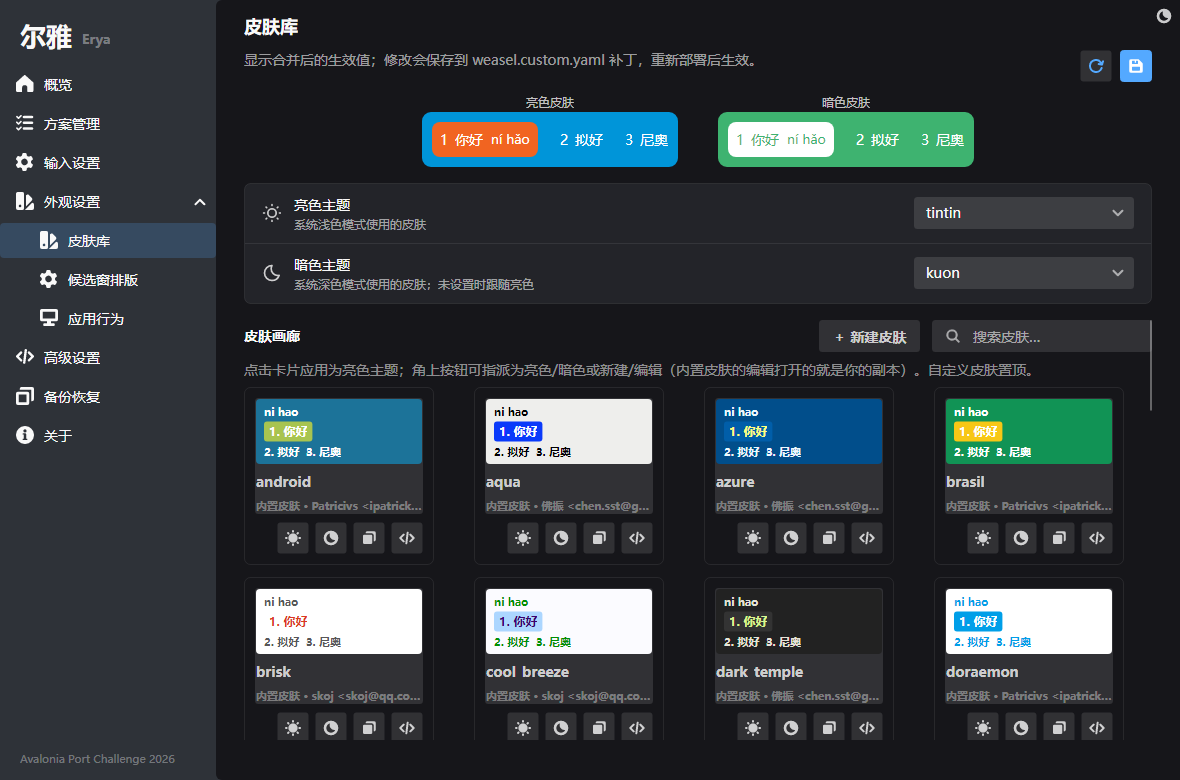
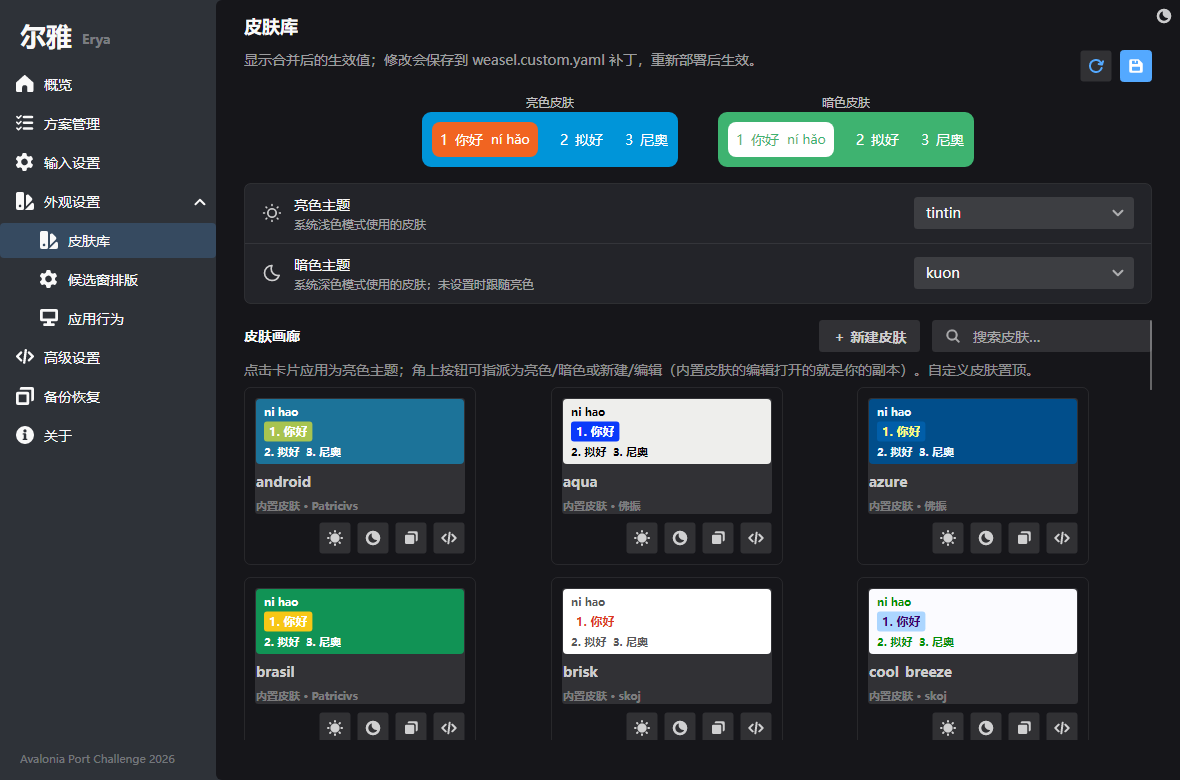
refactor: gallery cards and color picker polish (round 9)

Changed region(s): [[0.2136, 0.7385, 0.9458, 0.9538], [0.2136, 0.4923, 0.9458, 0.7077]]

diff --git a/src/Erya/Views/ColorSwatch.cs b/src/Erya/Views/ColorSwatch.cs
@@ -7,16 +7,19 @@ using Avalonia.Media;
 namespace Erya.Views;
 
 /// <summary>
-/// 颜色色块（对比度主题式）：圆角矩形显示当前色，点击弹出完整取色器。
-/// 值为皮肤编辑器惯用的 RIME 0xBBGGRR 十六进制字符串（无 0x 前缀）。
+/// 颜色色块（对比度主题式）：圆角矩形显示当前色，点击弹出扁平取色面板
+/// （ColorView 直出，无嵌套弹层）。值为皮肤编辑器惯用的 RIME 0xBBGGRR
+/// 十六进制字符串（无 0x 前缀），经 <see cref="SwatchColor"/> 桥接双向同步。
 /// </summary>
 public class ColorSwatch : TemplatedControl
 {
     public static readonly StyledProperty<string?> RimeHexProperty =
         AvaloniaProperty.Register<ColorSwatch, string?>(nameof(RimeHex));
 
+    public static readonly StyledProperty<Color> SwatchColorProperty =
+        AvaloniaProperty.Register<ColorSwatch, Color>(nameof(SwatchColor), Colors.White);
+
     private Border? _swatch;
-    private ColorPicker? _picker;
     private bool _syncing;
 
     public ColorSwatch()
@@ -32,52 +35,45 @@ public class ColorSwatch : TemplatedControl
         set => SetValue(RimeHexProperty, value);
     }
 
+    /// <summary>取色面板双向绑定的桥：与 RimeHex 同步。</summary>
+    public Color SwatchColor
+    {
+        get => GetValue(SwatchColorProperty);
+        set => SetValue(SwatchColorProperty, value);
+    }
+
     protected override void OnApplyTemplate(TemplateAppliedEventArgs e)
     {
         base.OnApplyTemplate(e);
         _swatch = e.NameScope.Find("PART_Swatch") as Border;
-        _picker = e.NameScope.Find("PART_Picker") as ColorPicker;
-        if (_picker is not null)
-            _picker.ColorChanged += (_, args) => SyncFromPicker(args.NewColor);
         SyncSwatch();
-        SyncPicker();
     }
 
     protected override void OnPropertyChanged(AvaloniaPropertyChangedEventArgs change)
     {
         base.OnPropertyChanged(change);
+        if (_syncing) return;
         if (change.Property == RimeHexProperty)
         {
+            _syncing = true;
+            if (RimeHex is { } hex && TryParseBgr(hex, out var color)) SwatchColor = color;
             SyncSwatch();
-            SyncPicker();
+            _syncing = false;
+        }
+        else if (change.Property == SwatchColorProperty)
+        {
+            _syncing = true;
+            var c = SwatchColor;
+            SetCurrentValue(RimeHexProperty, $"{c.B:X2}{c.G:X2}{c.R:X2}");
+            SyncSwatch();
+            _syncing = false;
         }
     }
 
     private void SyncSwatch()
     {
         if (_swatch is null) return;
-        _swatch.Background = RimeHex is { } hex && TryParseBgr(hex, out var color)
-            ? new SolidColorBrush(color)
-            : Brushes.Transparent;
-    }
-
-    private void SyncPicker()
-    {
-        if (_picker is null || _syncing) return;
-        if (RimeHex is { } hex && TryParseBgr(hex, out var color))
-        {
-            _syncing = true;
-            _picker.Color = color;
-            _syncing = false;
-        }
-    }
-
-    private void SyncFromPicker(Color color)
-    {
-        if (_syncing) return;
-        _syncing = true;
-        SetCurrentValue(RimeHexProperty, $"{color.B:X2}{color.G:X2}{color.R:X2}");
-        _syncing = false;
+        _swatch.Background = new SolidColorBrush(SwatchColor);
     }
 
     private static bool TryParseBgr(string hex, out Color color)

diff --git a/tests/Erya.UiTests/SettingsPageRenderTests.cs b/tests/Erya.UiTests/SettingsPageRenderTests.cs
@@ -249,6 +249,11 @@ public sealed class SettingsPageRenderTests : IDisposable
         Assert.True(vm.IsDirty);
         Assert.True(userDark.IsCurrentLight);
         Assert.False(userDark.IsCurrentDark);
+        // 当前角色用 Ursa Badge 角标显示在卡片上。
+        Assert.Contains(page.GetVisualDescendants().OfType<Ursa.Controls.Badge>(),
+            b => b.Content as string == "亮色" && b.IsVisible);
+        Assert.DoesNotContain(page.GetVisualDescendants().OfType<Ursa.Controls.Badge>(),
+            b => b.Content as string == "暗色" && b.IsVisible);
         vm.UseAsDarkSchemeCommand.Execute(userDark);
         Dispatcher.UIThread.RunJobs();
         Assert.Equal("user_dark", vm.DarkSchemeField!.Selected);
@@ -324,14 +329,14 @@ public sealed class SettingsPageRenderTests : IDisposable
         Dispatcher.UIThread.RunJobs();
         Assert.Equal(0xFF, Assert.IsAssignableFrom<ISolidColorBrush>(swatchBorder.Background).Color.R);
 
-        // 真实点击色块弹出完整取色器（Popup 挂在窗口的 OverlayPopupHost 里），
-        // 在取色器里改色实时写回皮肤（BGR 十六进制）。
+        // 真实点击色块弹出扁平取色面板（ColorView，Popup 挂在窗口 OverlayPopupHost），
+        // 在面板里改色实时写回皮肤（BGR 十六进制）。
         var swatchButton = swatch.GetVisualDescendants().OfType<Button>().First();
         var at = swatchButton.TranslatePoint(new Point(swatchButton.Bounds.Width / 2, swatchButton.Bounds.Height / 2), host)!.Value;
         host.MouseDown(at, Avalonia.Input.MouseButton.Left);
         host.MouseUp(at, Avalonia.Input.MouseButton.Left);
         Dispatcher.UIThread.RunJobs();
-        var picker = host.GetVisualDescendants().OfType<ColorPicker>().FirstOrDefault();
+        var picker = host.GetVisualDescendants().OfType<ColorView>().FirstOrDefault();
         Assert.NotNull(picker);
         picker!.Color = Avalonia.Media.Color.FromRgb(0x11, 0x22, 0x33);
         Dispatcher.UIThread.RunJobs();

diff --git a/src/Erya/ViewModels/Settings/ColorSchemeViewModels.cs b/src/Erya/ViewModels/Settings/ColorSchemeViewModels.cs
@@ -369,12 +369,12 @@ public sealed partial class ColorSchemeViewModel : ObservableObject
     /// <summary>行说明：内置皮肤 vs 自定义皮肤。</summary>
     public string KindText => IsShipped ? "内置皮肤" : "自定义皮肤";
 
-    /// <summary>卡片第二行：类型 + 原作者（有则带出）。</summary>
+    /// <summary>卡片第二行：类型 + 原作者（去掉 &lt;邮箱&gt;，太长放不下）。</summary>
     public string DetailText
     {
         get
         {
-            var author = Author.Trim();
+            var author = Regex.Replace(Author.Trim(), @"\s*<[^>]*>", "");
             return author.Length == 0 ? KindText : $"{KindText} · {author}";
         }
     }
